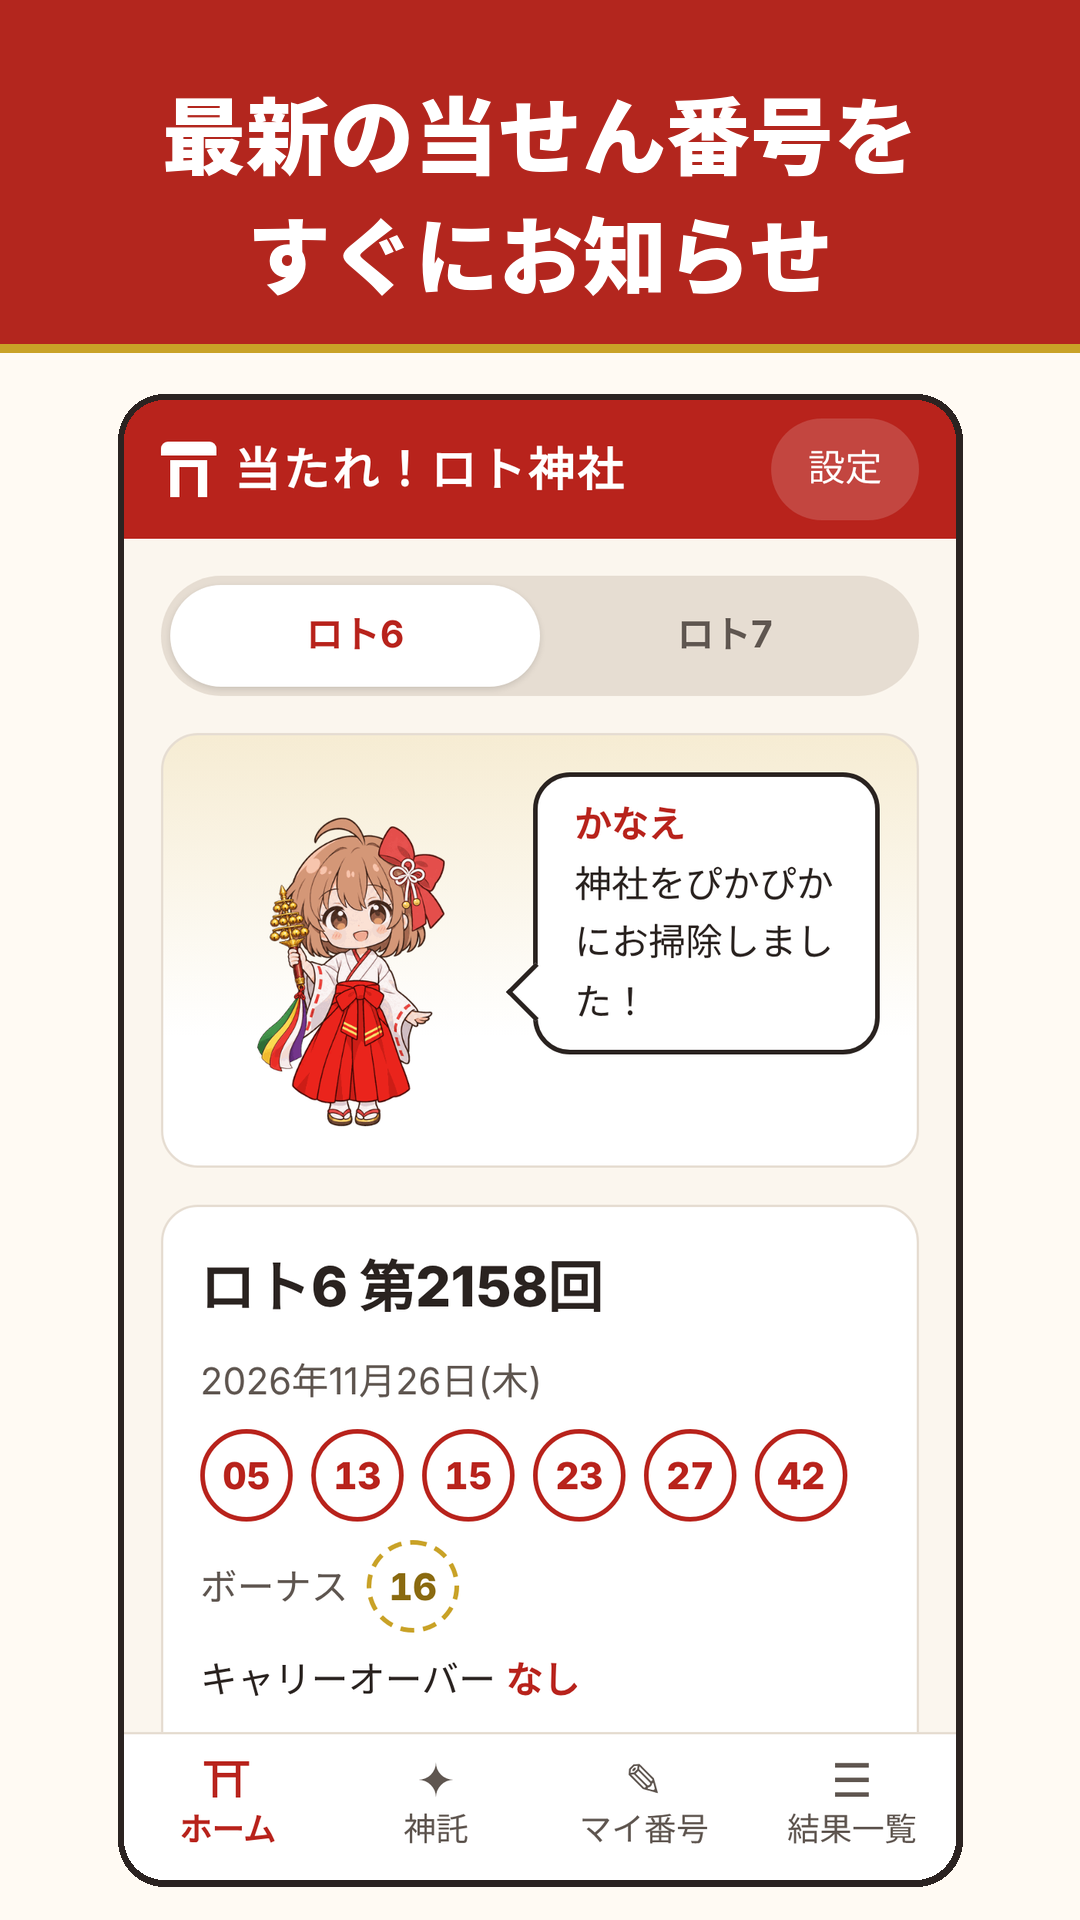
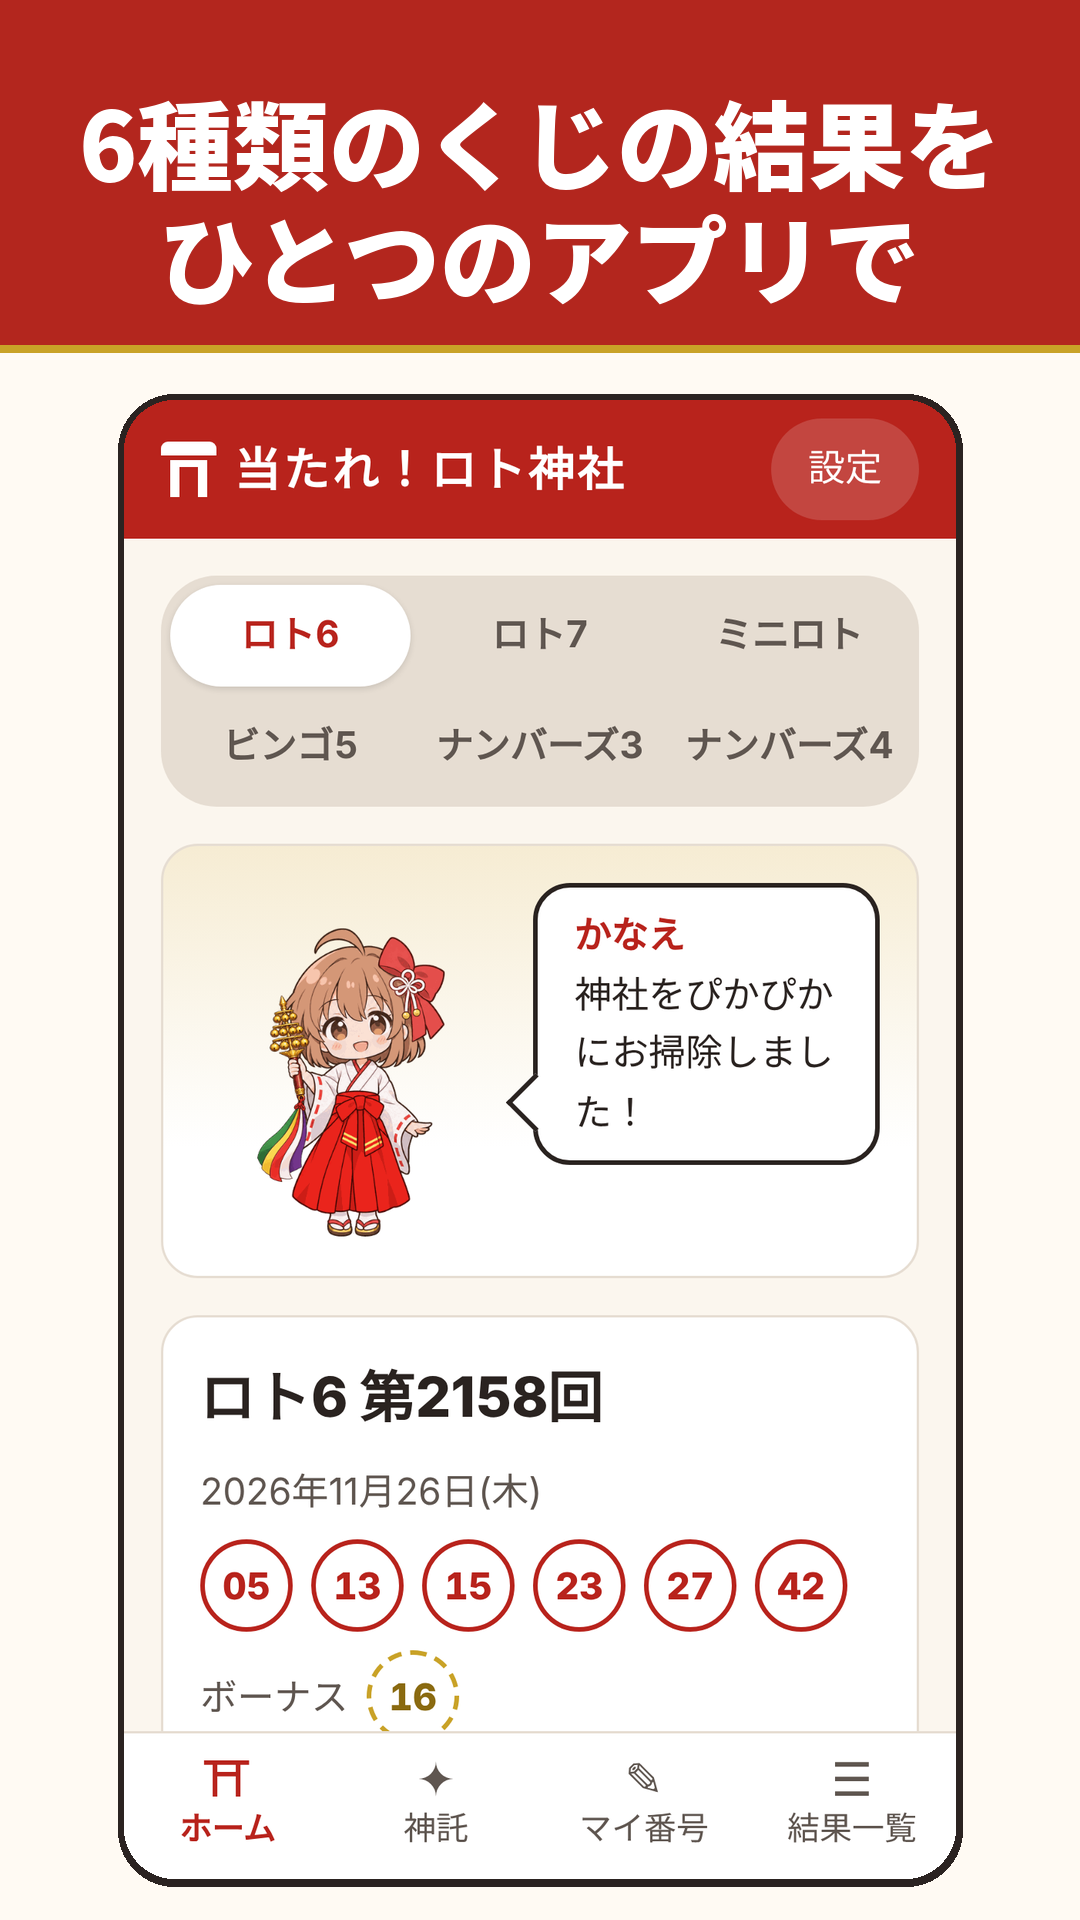
判定役の改善点を反映（引き継ぎ文書・昼〜夕方の取り込み・表記・ストア画像）
- owner-handoff.md：アプリ名を新しい名前に、6種類対応、当せん金を定期タスクで翌朝に書き足す旨を追記
- 新しい4種類だけの取り込みを日本時間 毎日 12:00・15:00・18:00 にも実行（ロト6・7はそのまま）
- ビンゴ5のライン表記を「横（上段）、斜め（左上から）」の形に。ナンバーズの登録一覧を「第7123回・ボックス」に
- 設定画面の出典に「元データは loto-life.net」を追記
- ストア用スクリーンショット6枚とフィーチャーグラフィックの小見出しを新しい画面・6種類対応に作り直し

Claude-Session: https://claude.ai/code/session_01ExabhAFhoQkYboXbEMhqQ1

diff --git a/src/app.js b/src/app.js
@@ -83,7 +83,7 @@ function fmtJst(date) {
 const draws = (game = state.game) => state.data[game].draws;
 const gtype = (game = state.game) => GAMES[game].type;
 const POS_NAMES = { 3: ['百の位', '十の位', '一の位'], 4: ['千の位', '百の位', '十の位', '一の位'] };
-const LINE_NAMES = ['横・上段', '横・中段', '横・下段', '縦・左列', '縦・中列', '縦・右列', '斜め（左上から）', '斜め（右上から）'];
+const LINE_NAMES = ['横（上段）', '横（中段）', '横（下段）', '縦（左列）', '縦（中列）', '縦（右列）', '斜め（左上から）', '斜め（右上から）'];
 const upcoming = (game = state.game) => nextDraw(game, draws(game).at(-1));
 
 function ballsHtml(main, bonus = [], opts = {}) {
@@ -437,7 +437,7 @@ function renderMine() {
       if (type === 'bingo') {
         const ls = bingoLines(t.nums, dr.main);
         balls = boardHtml(t.nums, { small: true, hits: bingoHits(t.nums, dr.main), lines: ls });
-        extra = `<p class="note">そろったライン ${ls.length}本${ls.length ? '：' + ls.map(i => LINE_NAMES[i]).join('・') : ''}</p>`;
+        extra = `<p class="note">そろったライン ${ls.length}本${ls.length ? '：' + ls.map(i => LINE_NAMES[i]).join('、') : ''}</p>`;
       } else if (type === 'numbers') {
         balls = digitsHtml(t.nums, { small: true, hits: numbersHits(t, dr, r) });
       } else {
@@ -447,7 +447,7 @@ function renderMine() {
       res = '<span class="res muted">結果の取り込み待ち</span>';
     }
     return `<div class="entry">
-      <div class="row between"><b>第${t.draw}回${type === 'numbers' ? `<span class="tag ml8">${NUM_TYPES[t.type].name}</span>` : ''}</b>${res}</div>
+      <div class="row between"><b>第${t.draw}回${type === 'numbers' ? `・${NUM_TYPES[t.type].name}` : ''}</b>${res}</div>
       <div class="mt8">${balls}</div>${extra}
       <div class="row end mt8"><button type="button" class="btn ghost" data-del="${t.id}">削除</button></div>
     </div>`;
@@ -585,7 +585,7 @@ function openSettings() {
       <li>18歳以上の方向けのアプリです。くじの購入はできません。</li>
       <li>神託（予想）はお楽しみ機能です。当せん確率は上がりません。</li>
       <li>くじは無理のない範囲で楽しみましょう。</li>
-      <li>当せん番号の出典：ロト6・ロト7はみずほ銀行の公式発表（公開データ jjayck/lotoanaba-data を経由し、公式と照合して取り込み）。ミニロト・ビンゴ5・ナンバーズ3・ナンバーズ4は公開データ lotto-data-hub（MITライセンス）を元に取り込み、結果は抽せんの翌朝〜午前中に反映されます。正式な結果は公式発表でご確認ください。取り込み済み：<span id="dataStatus">${dataStatus()}</span>まで</li>
+      <li>当せん番号の出典：ロト6・ロト7はみずほ銀行の公式発表（公開データ jjayck/lotoanaba-data を経由し、公式と照合して取り込み）。ミニロト・ビンゴ5・ナンバーズ3・ナンバーズ4は公開データ lotto-data-hub（MITライセンス。元データは loto-life.net）を元に取り込み、結果は抽せんの翌朝〜午前中に反映されます。正式な結果は公式発表でご確認ください。取り込み済み：<span id="dataStatus">${dataStatus()}</span>まで</li>
       <li>登録した番号や誕生日はこの端末の中だけに保存されます。</li>
       <li><a class="tap-link" href="privacy.html">プライバシーポリシー</a></li>
     </ul>

diff --git a/src/style.css b/src/style.css
@@ -192,7 +192,6 @@ table.trend-table td .muted { display: block; font-size: 14px; }
 .ntypes .school { min-height: 72px; }
 .schools.ntypes { margin-bottom: 16px; }
 .school[disabled] { opacity: .45; cursor: not-allowed; }
-.ml8 { margin-left: 8px; }
 .entry { border: 1px solid var(--line); border-radius: 16px; padding: 16px; }
 .entry + .entry { margin-top: 8px; }
 .entry .res { font-weight: 800; }

diff --git a/docs/spec.md b/docs/spec.md
@@ -106,7 +106,7 @@ tools/
 - 大きさ（2026-11-27 時点、カッコ内は gzip）：ミニロト 94KB（18KB）、ビンゴ5 32KB（7KB）、ナンバーズ3 330KB（54KB）、ナンバーズ4 344KB（60KB）。アプリは最初に「選んでいるくじ」のデータだけを読み込み、ほかは切り替えたときに読み込む（設定画面を開いたときは取り込み済みの回を出すため全部読む）
 - オフライン：Service Worker が最初に保存するデータはロト6・ロト7だけ（従来どおり）。新しい4種類のデータは、そのくじを一度開いたときに保存され、それ以降はオフラインでも見られる
 - 自動追記：`tools/update-data.mjs hub`（`tools/hub.mjs`）。公開データ（`https://tk030-lotto.github.io/lotto-data-hub/data/<種類>.json`）から新しい回を追記する。取り込む前に「手元の直近20回と回・日付・数字が完全一致」「回が連続」「日付が増える」「数字が範囲内（ロトは重複なし・ビンゴ5はマスの範囲・ナンバーズは0〜9）」「追記する回が、そのくじの抽せん日（曜日・年末年始の休み。`nextDraw` の予測）どおりの日付で、抽せん時刻を過ぎている」を確かめ、どれか違えば何も取り込まずに失敗。一度に追記するのは最大50回（残りは次の実行で）
-- 実行時刻：公開データの更新は日本時間0時〜8時ごろとばらつくため、`.github/workflows/deploy.yml` で月〜金の抽せんの翌朝 6:00〜10:00（日本時間、1時間おき）に実行。画面の案内は「翌朝〜午前中に反映」
+- 実行時刻：公開データの更新は日本時間0時〜8時ごろとばらつき、10時を過ぎる日もあるため、`.github/workflows/deploy.yml` で月〜金の抽せんの翌朝 6:00〜10:00（日本時間、1時間おき）と、毎日（週末も）12:00・15:00・18:00 に実行（後者は新しい4種類だけで、ロト6・ロト7は取り込まない）。画面の案内は「翌朝〜午前中に反映」
 - 失敗の扱い：ロト6・ロト7の取り込み（`update-data.mjs loto`）とは別の手順。新しい4種類の取り込みに失敗したとき、または取り込んだあとのテスト（`tools/test.mjs`）が通らないとき（このときは新しい4種類の取り込みを取り消す）も、ロト6・ロト7の保存と公開は続ける。失敗は、公開のあとの `hub-failed` ジョブが失敗になることで分かる（スクリプト単体の終了コードは 3）
 - テスト：当せん金のテストは公式の値を入れた回（fixtures の直近20回）で行い、「最新回」は使わない。さらに「4種類すべてに当せん金なしの新しい回を3回ずつ追記した状態でも全テストが通る」ことを、データのコピーで毎回確かめる
 - 当せん金の書き足し：`node tools/set-official.mjs <loto6|loto7|miniloto|bingo5|numbers> <公式CSV>`。公式CSVの回・日付・数字（ロトはボーナスも）が手元と完全に一致したときだけ `winners`・`prizes`（ロト6・7はキャリーオーバーも）を書き足す。記録済みの値と食い違えば上書きしない。ナンバーズは1ファイルで3と4の両方に書く（両方そろって一致したときだけ）。終了コードは `set-carryover.mjs` と同じ（0=書いた／記録済み、2=使い方、3=未取り込みの回、4=不一致など、5=CSVが読めない）。公式はクラウドからのアクセスを拒否するので、Claude の定期タスクなどが公式CSVを読んで渡す想定
@@ -120,7 +120,7 @@ tools/
 - 神託の各口：右上に「かぶりにくい／ふつう／かぶりやすい」、メーターの下に「かぶりにくさ ○点（100点満点）」と理由（360px幅でも1行に収まるように）
 - タップ領域：数字パッドは360px幅でも横の間隔を4pxにして1つ44px以上。プライバシーポリシーのリンクも高さ44px
 - マイ番号：ミニロトはロトと同じ数字パッド。ビンゴ5は盤面のマスを押してから、そのマスの5つの数字から1つ（選ぶと次の空きマスへ）。ナンバーズは桁を押して0〜9を入れ（入れると次の桁へ）、申込タイプ（ストレート・ボックス・セット・ミニ〔3のみ〕）を選ぶ。ゾロ目ではボックス・セットを押せず、登録もできない。保存は `{ id, game, nums, draw, created }`（ナンバーズは `type` も）。ロト6・7の保存形は変えていない
-- 当せんチェック：ビンゴ5は一致したマスを朱で塗り、そろったラインのマスを金の枠で囲み、「そろったライン N本：横・上段…」を出す。ナンバーズは「ボックス当せん！ 14,100円」のようにタイプごとの結果と金額
+- 当せんチェック：ビンゴ5は一致したマスを朱で塗り、そろったラインのマスを金の枠で囲み、「そろったライン N本：横（上段）、斜め（左上から）…」を出す。ナンバーズは「第7123回・ボックス」の見出しで、「ボックス当せん！ 14,100円」のようにタイプごとの結果と金額
 - 神託：4流派は同じ。ミニロトはロトと同じ。ビンゴ5はマスごとの出現回数／出ていない回数で重み付けして各マスから1つ。ナンバーズは桁ごとの出現傾向（よく出る派・ご無沙汰派）、各桁の合計と奇数の桁の数（バランス派）、運気派（日付と誕生日の種）。ナンバーズは「申込タイプの例」（ゾロ目はストレート、それ以外はセット）を添え、「申込タイプは当たりやすさではなく、当たり方と当せん金の違い」と書く
 - 出現の傾向：ミニロトはロトと同じ。ビンゴ5は40個の出現回数（マスごとに色分け）と、マスごとの「よく出る／ご無沙汰」の表。ナンバーズは桁ごとの0〜9の出現回数
 - かぶりにくさ指数（100点から減点、当せん確率は変わらない旨の注意書きは同じ）

diff --git a/docs/owner-handoff.md b/docs/owner-handoff.md
@@ -17,7 +17,7 @@
    - https://play.google.com/console で登録。登録料 25ドル、本人確認（身分証）があります。
    - 種類は「個人」で大丈夫です。住所・電話番号の確認がある場合があります。
    - 連絡先メールアドレスはストアに公開されます（公開してよいアドレスを使ってください）。
-2. **アプリを作成**：アプリ名「当たれ！ロト神社 ロト6・ロト7当せん速報」、無料、アプリ（ゲームではない）。
+2. **アプリを作成**：アプリ名「当たれ！ロト神社 ロト・ナンバーズ当せん番号」、無料、アプリ（ゲームではない）。
 3. **掲載情報の入力**：`store-listing.md` の文章と、`store/` の画像をそのまま使えます。
    - 「アプリのコンテンツ」の質問（データセーフティ・レーティング・対象年齢18歳以上・広告なし・アクセス権・ニュース/金融/健康/政府アプリか）も、同じファイルに回答案があります。
 4. **クローズドテスト**（個人アカウントの必須ルール）
@@ -31,11 +31,12 @@
 
 ## 公開前に一度だけ見てほしいこと
 - 外付けHDDの `release/` に .aab、`secrets/` に鍵があること（鍵は別の場所にもバックアップを。無くすとアプリを更新できなくなります）。
-- アプリの「ホーム」で最新回が公式発表と同じになっていること。
+- アプリの「ホーム」で、6種類（ロト6・ロト7・ミニロト・ビンゴ5・ナンバーズ3・ナンバーズ4）それぞれの最新回が公式発表と同じになっていること（上の切り替えで種類を選べます）。
 
 ## 自動で動いているもの（オーナーの作業なし）
-- 抽せん日の夜に当せん番号を自動で取り込み、サイトを更新（GitHub Actions）。
-- 翌朝にキャリーオーバー額を公式CSVと照合して書き足し（Claude の定期タスク）。
+- ロト6・ロト7は抽せん日の夜に、ミニロト・ビンゴ5・ナンバーズ3・ナンバーズ4は抽せんの翌朝〜午前中（遅れた日は昼〜夕方）に、当せん番号を自動で取り込み、サイトを更新（GitHub Actions）。
+- 翌朝にキャリーオーバー額（ロト6・ロト7）を公式CSVと照合して書き足し（Claude の定期タスク）。
+- ミニロト・ビンゴ5・ナンバーズの当せん金（口数と1口の金額）も、翌朝に公式CSVと照合して書き足す（Claude の定期タスク。`tools/set-official.mjs` を使う。定期タスクの設定は CEO が行う）。書き足すまでは、アプリに「当せん金は公式発表でご確認ください」と出ます。
 - サイトが更新されると、インストール済みのアプリにもそのまま反映されます（アプリの作り直し不要）。
 
 ## アプリを作り直すとき（見た目や名前を変えるとき）

diff --git a/src/README.md b/src/README.md
@@ -16,7 +16,7 @@ npx serve .
 
 ## 当せん番号の更新
 `node tools/update-data.mjs`（ロト6・ロト7は公式の回別CSV〔だめなら予備の公開データ〕、ミニロト・ビンゴ5・ナンバーズは公開データ lotto-data-hub から新しい回を追記。ネットにつながる場所で実行。`loto` か `hub` を付けると片方だけ）
-GitHub（fullmoonsatoshi-sudo/loto-jinja）では `.github/workflows/deploy.yml` が、ロト6・ロト7の抽せん日の夜（19:00〜23:30 に30分おき）と、月〜金の抽せんの翌朝6時〜10時（1時間おき）に自動で取り込み、公開ページも更新します。
+GitHub（fullmoonsatoshi-sudo/loto-jinja）では `.github/workflows/deploy.yml` が、ロト6・ロト7の抽せん日の夜（19:00〜23:30 に30分おき）と、月〜金の抽せんの翌朝6時〜10時（1時間おき）と毎日12時・15時・18時（ミニロト・ビンゴ5・ナンバーズだけ）に自動で取り込み、公開ページも更新します。
 当せん金の書き足し：`node tools/set-official.mjs <種類> <公式CSV>`（詳しくは docs/spec.md の 6-2）
 
 ## Google Play に出すまで
